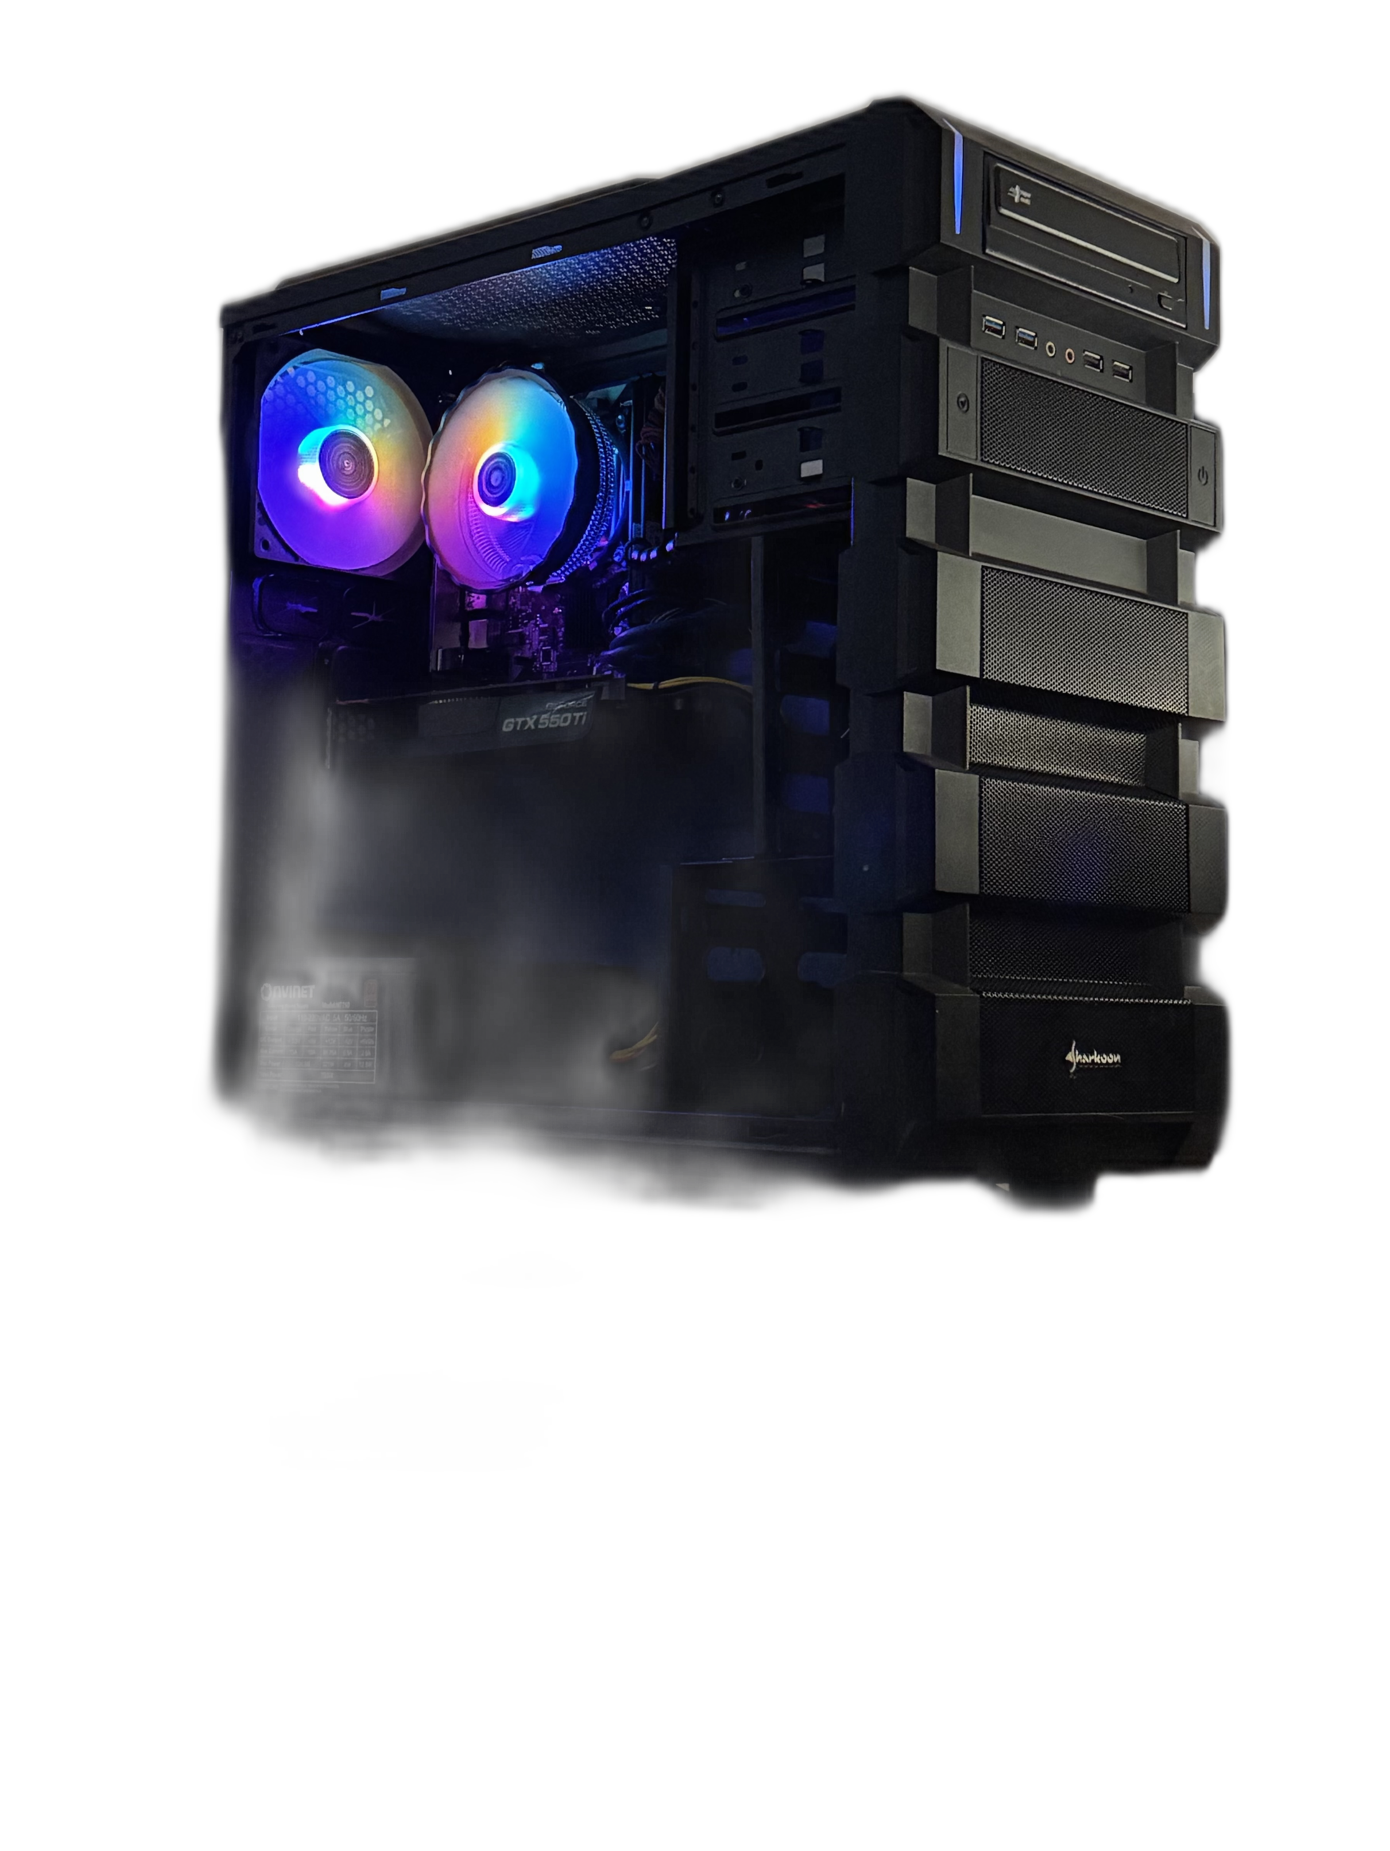
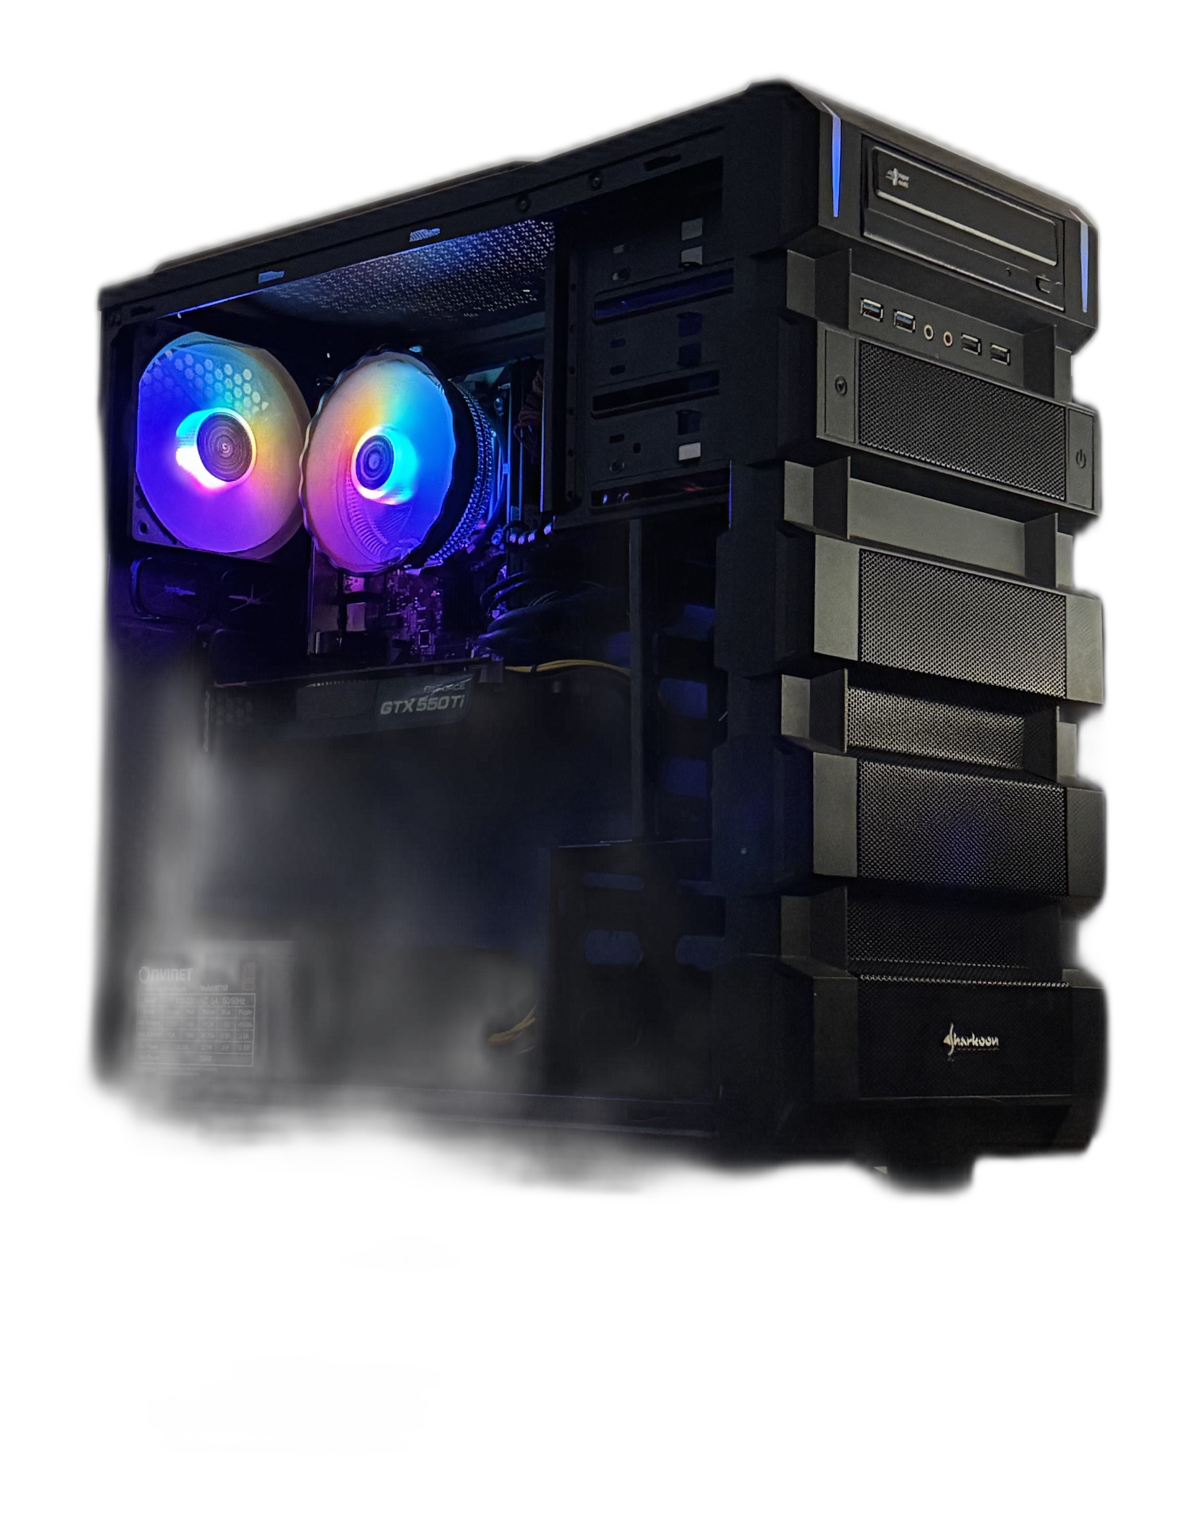
Corrige foto do PC i5 GTX 550 Ti

diff --git a/index.html b/index.html
@@ -1639,6 +1639,14 @@
         transform: translateX(-50%) translateY(-8px) scale(1.018);
         filter: drop-shadow(0 32px 32px rgba(0, 0, 0, .46));
       }
+      .product-card[data-product-id="pcgameri53330gtx550ti"] .product-cutout {
+        transform: translateX(-50%) translateY(14px) scale(1.11);
+        filter: brightness(1.08) contrast(1.06) drop-shadow(0 26px 28px rgba(0, 0, 0, .42));
+      }
+      .product-card[data-product-id="pcgameri53330gtx550ti"]:hover .product-cutout {
+        transform: translateX(-50%) translateY(6px) scale(1.13);
+        filter: brightness(1.08) contrast(1.06) drop-shadow(0 32px 32px rgba(0, 0, 0, .46));
+      }
       .body {
         display: flex;
         flex: 1;
@@ -5409,7 +5417,7 @@
         const isHardware = cardType === "hardware";
 
         return `
-        <article class="card product-card ${isHardware ? "hardware-card" : "pc-card"} category-${escapeHtml(category)}" data-base-price="${basePrice}">
+        <article class="card product-card ${isHardware ? "hardware-card" : "pc-card"} category-${escapeHtml(category)}" data-product-id="${escapeHtml(product.id || "")}" data-base-price="${basePrice}">
           <button class="photo ${escapeHtml(photoClass)}" type="button" data-lightbox-gallery="${escapeHtml(encodeMediaGallery(productImages))}" data-lightbox-alt="${escapeHtml(product.title)}" aria-label="Ampliar fotos de ${escapeHtml(product.title)}">
             <img class="product-cutout" src="${escapeHtml(image)}" alt="${escapeHtml(product.title)}" loading="lazy">
           </button>
